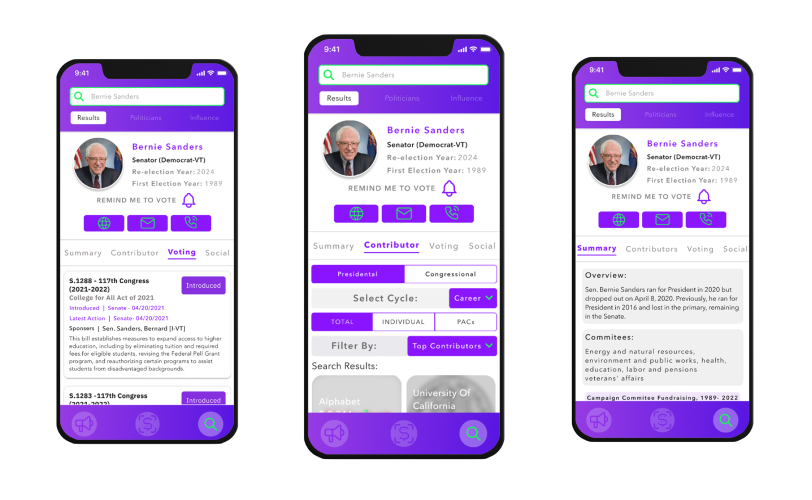
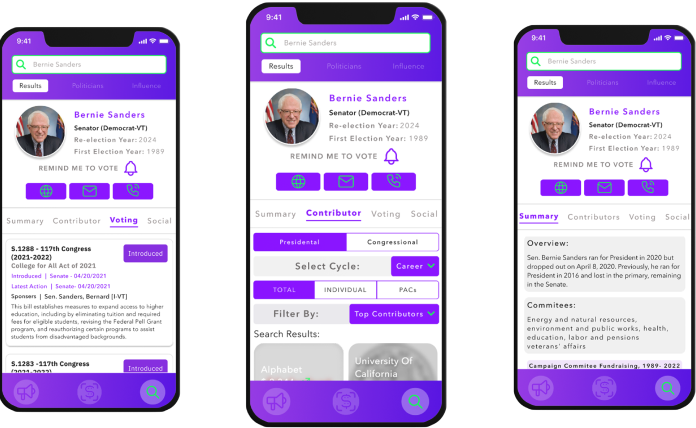
Update spacing

diff --git a/src/components/adalida_page/projects_page/cyph/ideate.js b/src/components/adalida_page/projects_page/cyph/ideate.js
@@ -3,28 +3,21 @@ import React from 'react'
 import prototypePhoto from 'images/cyph/prototype.png'
 
 import Card from '../card'
+import HeadingsWithText from '../headings_with_text'
 
 import useIsMobile from 'hooks/use_is_mobile'
 
 import 'sass/adalida_page/cyph.scss'
 
 const Ideate = () => {
-  const isMobile = useIsMobile(1500)
+  const isMobile = useIsMobile(1200)
   const centerStyles = {
     placeItems: 'center center'
   }
-  const problemOne = (
-    <div>
-      <h1 className='caption'>Problem:</h1>
-      <p>
-        Voters can&apos;t see who is donating to their politicians and how that affects their voting easily.
-      </p>
-      <h1 className='caption'>Goals</h1>
-      <p>
-        Connect voters with an up-to-date database of a representative&apos;s financial and voting history.
-      </p>
-    </div>
-  )
+  const problemOne = {
+    'Problem:': "Voters can't see who is donating to their politicians and how that affects their voting easily.",
+    Goals: "Connect voters with an up-to-date database of a representative's financial and voting history."
+  }
   const image = (
     <div style={{
       width: '100%',
@@ -35,40 +28,23 @@ const Ideate = () => {
       <img src={prototypePhoto} width='100%' />
     </div>
   )
-  const problemTwo = (
-    <div>
-      <h1 className='caption'>Problem:</h1>
-      <p>
-        People aren&apos;t familiar with representative&apos;s backgrounds or what committees they sit on.
-      </p>
-      <h1 className='caption'>Goals</h1>
-      <p>
-        Provide up-to-date and background information on representative&apos;s positions during their political career.
-      </p>
-    </div>
-  )
-  const style = {
-    display: 'grid',
-    gridTemplateColumns: '1fr',
-    width: '90%',
-    height: '100%',
-    margin: '0 auto',
-    ...centerStyles
+  const problemTwo = {
+    'Problem:': "People aren't familiar with representative's backgrounds or what committees they sit on.",
+    Goals: "Provide up-to-date and background information on representative's positions during their political career."
   }
   return (
     <Card title='// IDEATE'>
-    <div style={style}>
       <div style={{
         display: 'grid',
         gridTemplateColumns: isMobile ? '1fr' : '1fr 8fr 1fr',
+        gap: '6%',
         width: '100%',
         ...centerStyles
       }}>
-        {problemOne}
+        <HeadingsWithText headingsAndText={problemOne} />
         {image}
-        {problemTwo}
+        <HeadingsWithText headingsAndText={problemTwo} />
       </div>
-    </div>
     </Card>
   )
 }

diff --git a/src/components/adalida_page/projects_page/cyph/prototype.js b/src/components/adalida_page/projects_page/cyph/prototype.js
@@ -3,23 +3,23 @@ import React from 'react'
 import testPhoto from 'images/cyph/test.png'
 
 import Card from '../card'
+import HeadingsWithText from '../headings_with_text'
 import ImageWithText from '../image_with_text'
 
 import 'sass/adalida_page/cyph.scss'
 
 const Prototype = () => {
-  const problem = (
-    <div style={{ flexBasis: '32%', flexGrow: 3, flexShrink: 1 }}>
-      <h1 className='caption'>The Problem</h1>
-      People don&apos;t know who their elected officials are, how to contact them, or easily find their voting history.
-      <h1 className='caption'>Goals</h1>
-      Connect voters quickly with their local representatives and their political history.
-    </div>
-  )
+  const problem = {
+    'The Problem': "People don't know who their elected officials are, how to contact them, or easily find their voting history.",
+    Goals: 'Connect voters quickly with their local representatives and their political history.'
+  }
 
   return (
     <Card title='// Prototype'>
-      <ImageWithText image={testPhoto} text={problem} />
+      <ImageWithText
+        image={testPhoto}
+        text={<HeadingsWithText headingsAndText={problem} />}
+      />
     </Card>
   )
 }

diff --git a/src/components/adalida_page/projects_page/cyph/define.js b/src/components/adalida_page/projects_page/cyph/define.js
@@ -3,22 +3,23 @@ import React from 'react'
 import designPhoto from 'images/cyph/design.png'
 
 import Card from '../card'
+import HeadingsWithText from '../headings_with_text'
 import ImageWithText from '../image_with_text'
 
 import 'sass/adalida_page/cyph.scss'
 
 const Define = () => {
-  const problem = (
-    <>
-      <h1 className='caption'>The Problem</h1>
-      Citizens United makes it difficult for voters to see who is financials sponsoring their local representatives.
-      <h1 className='caption'>My Solution</h1>
-      Provide a fast and easy way for people to learn about a politician&apos;s donors.
-    </>
-  )
+  const headingsAndText = {
+    'The Problem': 'Citizens United makes it difficult for voters to see who is financials sponsoring their local representatives.',
+    'My Solution': "Provide a fast and easy way for people to learn about a politician's donors."
+  }
   return (
     <Card title='// Define'>
-      <ImageWithText image={designPhoto} text={problem} reversed={true} />
+      <ImageWithText
+        image={designPhoto}
+        text={<HeadingsWithText headingsAndText={headingsAndText} />}
+        reversed={true}
+      />
     </Card>
   )
 }

diff --git a/src/components/adalida_page/projects_page/cyph/test.js b/src/components/adalida_page/projects_page/cyph/test.js
@@ -4,23 +4,22 @@ import designTwoPhoto from 'images/cyph/design_two.png'
 
 import Card from '../card'
 import ImageWithText from '../image_with_text'
+import HeadingsWithText from '../headings_with_text'
 
 import 'sass/adalida_page/cyph.scss'
 
 const Test = () => {
-  const problem = (
-    <div style={{ flexBasis: '32%', flexGrow: 3, flexShrink: 1 }}>
-      <h1 className='caption'>Problem:</h1>
-      Voters find it difficult to get involved in local politicals
-      <h1 className='caption'>Goals</h1>
-      Cyph provides an in-person, virtual, and upcoming events and information based on the user&apos;s location and
-      saved choices.
-    </div>
-  )
+  const problem = {
+    'Problem:': 'Voters find it difficult to get involved in local politics.',
+    Goals: "Cyph provides an in-person, virtual, and upcoming events and information based on the user's location and saved choices."
+  }
 
   return (
     <Card title='// Test'>
-      <ImageWithText image={designTwoPhoto} text={problem} />
+      <ImageWithText
+        image={designTwoPhoto}
+        text={<HeadingsWithText headingsAndText={problem} />}
+      />
     </Card>
   )
 }

diff --git a/src/components/adalida_page/projects_page/cyph/understand.js b/src/components/adalida_page/projects_page/cyph/understand.js
@@ -3,6 +3,7 @@ import React from 'react'
 import userPersonaOne from 'images/cyph/research/user_persona_one.png'
 import userPersonaTwo from 'images/cyph/research/user_persona_two.png'
 import informationArchitecture from 'images/cyph/research/information_architecture.png'
+import affinityDiagram from 'images/cyph/research/affinity_diagram.png'
 
 import Card from '../card'
 import ResponsiveGrid from 'components/responsive_grid'
@@ -16,7 +17,7 @@ const Understand = () => {
     placeItems: 'center center'
   }
   const text = (
-    <ResponsiveGrid>
+    <ResponsiveGrid customStyles={{ gap: '6%' }} breakpoint='30vw'>
       <div>
         <p>
           My research focused on how voting works in the United States,
@@ -42,7 +43,7 @@ const Understand = () => {
       </div>
     </ResponsiveGrid>
   )
-  const carousel = <SwiperCarousel images={[userPersonaOne, userPersonaTwo, informationArchitecture]} />
+  const carousel = <SwiperCarousel images={[userPersonaOne, userPersonaTwo, informationArchitecture, affinityDiagram]} />
   const style = {
     display: 'grid',
     gridTemplateColumns: '1fr',

diff --git a/src/components/adalida_page/projects_page/cyph/next_steps.js b/src/components/adalida_page/projects_page/cyph/next_steps.js
@@ -4,6 +4,7 @@ import testTwoPhoto from 'images/cyph/test_two.png'
 
 import Card from '../card'
 import ImageWithText from '../image_with_text'
+import HeadingsWithText from '../headings_with_text'
 
 import 'sass/adalida_page/cyph.scss'
 
@@ -12,16 +13,21 @@ const NextSteps = () => {
     <>
       <h1>Develop</h1>
       <h1>Influence</h1>
-      <h1 className='caption'>Experience</h1>
-      Design an experience where users can scan products or company logos and learn about politicians they donate to.
-      <h1 className='caption'>User Testing</h1>
-      Conduct in-person usability studies.
+      <HeadingsWithText
+        headingsAndText={{
+          Experience: 'Design an experience where users can scan products or company logos and learn about politicians they donate to.',
+          'User Testing': 'Conduct in-person usability studies.'
+        }}
+      />
     </>
   )
 
   return (
     <Card title='// Next Steps'>
-      <ImageWithText image={testTwoPhoto} text={problem} />
+      <ImageWithText
+        image={testTwoPhoto}
+        text={problem}
+      />
     </Card>
   )
 }

diff --git a/src/components/adalida_page/projects_page/cyph/visual_identity.js b/src/components/adalida_page/projects_page/cyph/visual_identity.js
@@ -22,7 +22,7 @@ const VisualIdentity = () => {
   const grid = (
     <div style={{
       display: 'grid',
-      flexBasis: '65%',
+      flexBasis: '63%',
       flexGrow: 2,
       gridTemplate,
       ...centerStyles
@@ -45,7 +45,7 @@ const VisualIdentity = () => {
   const h1String = generateTypewriterString('H1', '48')
 
   const typography = (
-    <div style={{ flexBasis: '32%', flexGrow: 3, flexShrink: 1 }}>
+    <div style={{ flexBasis: '31%', flexGrow: 3, flexShrink: 1 }}>
       <div style={{
         display: 'flex',
         flexDirection: 'row',
@@ -87,7 +87,7 @@ const VisualIdentity = () => {
   return (
     <Card title='// Visual Identity'>
     <div style={style}>
-      <div style={{ display: 'flex', flexWrap: 'wrap', gap: '3%', alignItems: 'stretch', width: '100%' }}>
+      <div style={{ display: 'flex', flexWrap: 'wrap', gap: '6%', alignItems: 'stretch', width: '100%' }}>
         {grid}
         {typography}
       </div>

diff --git a/src/components/adalida_page/projects_page/image_with_text.js b/src/components/adalida_page/projects_page/image_with_text.js
@@ -6,22 +6,22 @@ const ImageWithText = ({ image, text, reversed = false }) => {
     <div style={{
       display: 'grid',
       gridTemplateColumns: '1fr',
-      flexBasis: '65%',
+      flexBasis: '63%',
       flexGrow: 2,
       placeItems: 'center center'
     }}>
-      <img src={image} style={{ maxWidth: '100%' }} />
+      <img src={image} style={{ width: '100%' }} />
     </div>
   )
 
   const textTag = (
-    <div style={{ flexBasis: '32%', flexGrow: 3, flexShrink: 1 }}>
+    <div style={{ flexBasis: '31%', flexGrow: 3, flexShrink: 1 }}>
       {text}
     </div>
   )
 
   return (
-    <div style={{ display: 'flex', flexWrap: 'wrap', placeItems: 'center', gap: '3%' }}>
+    <div style={{ display: 'flex', flexWrap: 'wrap', placeItems: 'center', gap: '6%' }}>
       {reversed ? [textTag, imageTag] : [imageTag, textTag]}
     </div>
   )

diff --git a/src/components/adalida_page/projects_page/headings_with_text.js b/src/components/adalida_page/projects_page/headings_with_text.js
@@ -1,0 +1,22 @@
+import React from 'react'
+import PropTypes from 'prop-types'
+
+const HeadingsWithText = ({ headingsAndText }) => {
+  const tags = Object.entries(headingsAndText).map(([heading, text], index) =>
+    <div key={`${heading}-${index}`}>
+      <h1 className='caption'>{heading}</h1>
+      {text}
+    </div>
+  )
+  return (
+    <div style={{ display: 'grid', gap: '6%', gridTemplateColumns: '1fr' }}>
+      {tags}
+    </div>
+  )
+}
+
+HeadingsWithText.propTypes = {
+  headingsAndText: PropTypes.objectOf(PropTypes.string).isRequired
+}
+
+export default HeadingsWithText

diff --git a/src/components/adalida_page/projects_page/cyph/about.js b/src/components/adalida_page/projects_page/cyph/about.js
@@ -62,7 +62,7 @@ const About = () => {
     'UI Designer'
   ]
   const sizeOfLargestRole = Math.max(...titles.map(title => title.length)) + 3
-  const rolesBreakpoint = 1.5 * sizeOfLargestRole + 'ch'
+  const rolesBreakpoint = 1.2 * sizeOfLargestRole + 'ch'
   const roles = (
     <div style={{
       gridColumn: '1 / -1',

diff --git a/src/sass/swiper_carousel.scss b/src/sass/swiper_carousel.scss
@@ -23,3 +23,7 @@
 .swiper-button-prev {
   color: #000000;
 }
+
+.swiper-pagination-bullet-active {
+  background: #4A00E0;
+}
